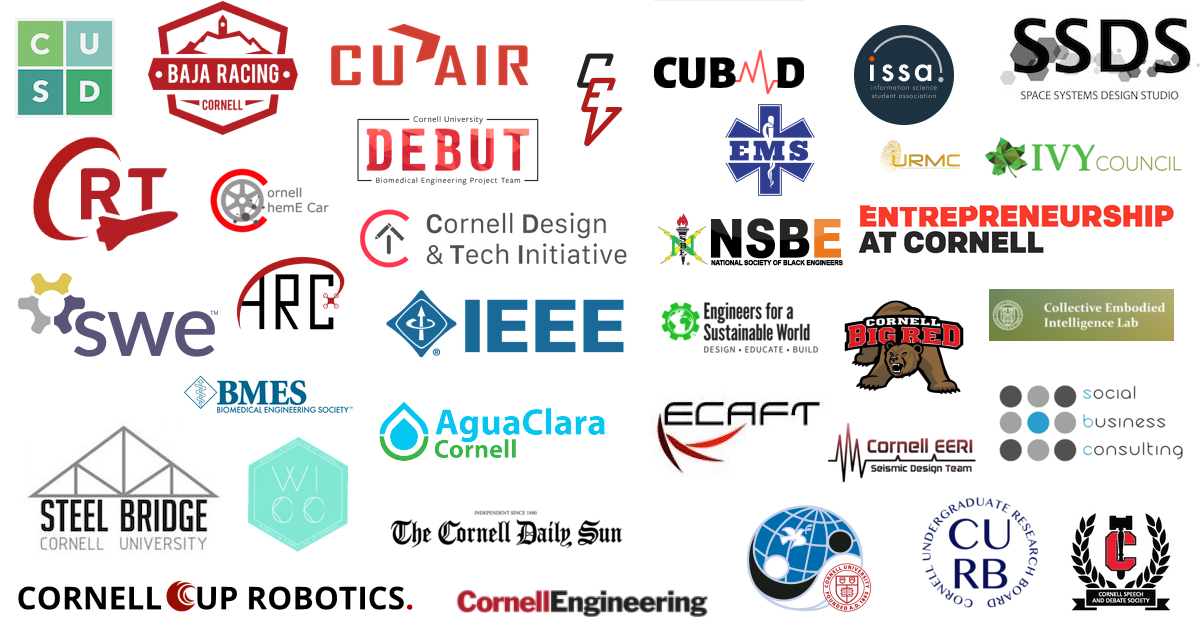
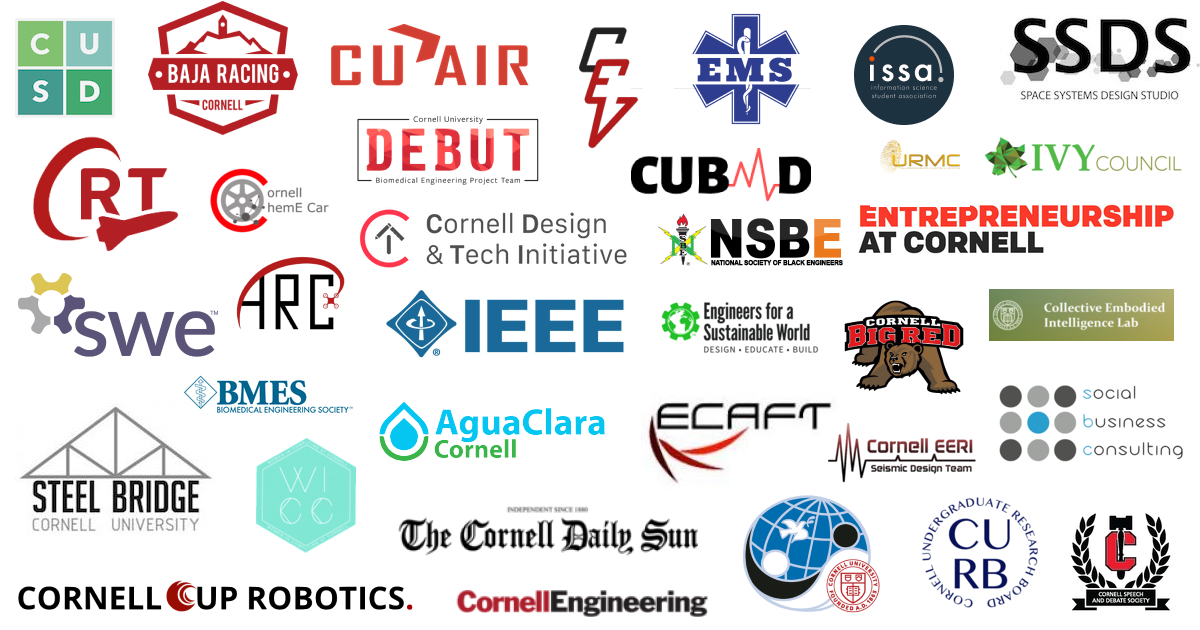
updating affiliations

diff --git a/index.html b/index.html
@@ -218,7 +218,9 @@
 
 
     <!--==========================
-      Clients Section
+      Affiliations Section
+
+      Edit logos on https://www.figma.com/file/a0MgbJAKFClXrF9ZX0FKkl/AOE-Website?node-id=1%3A135
     ============================ -->
     <section id="clients" class="wow fadeInUp">
       <div class="container">
